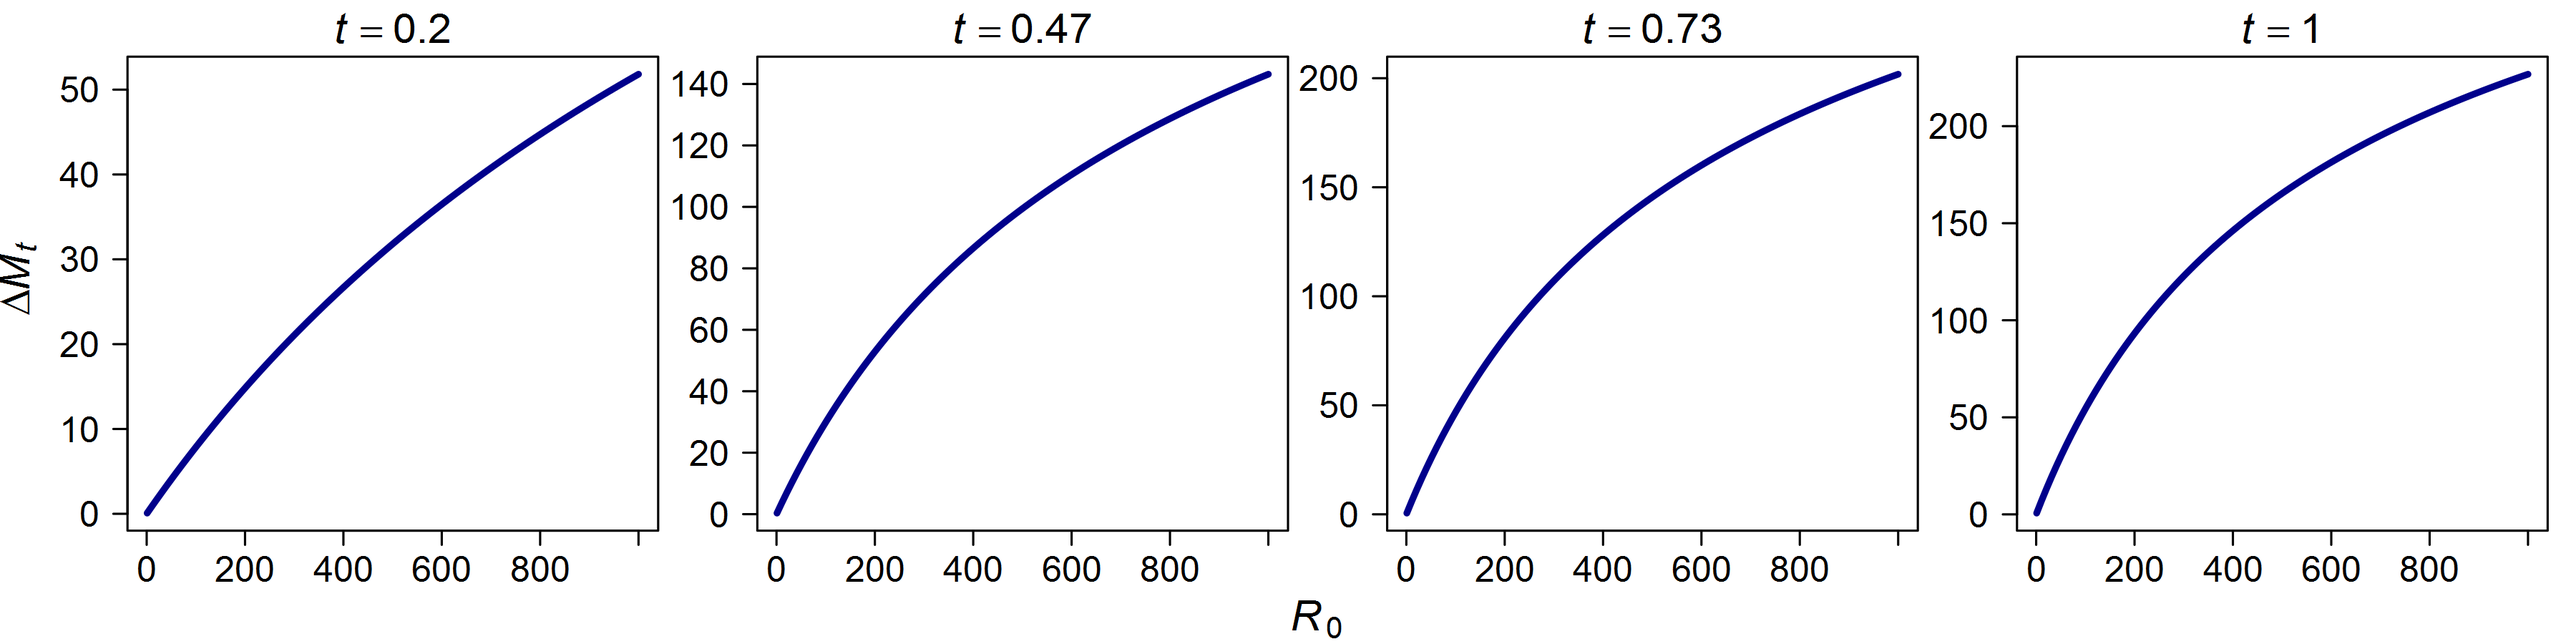
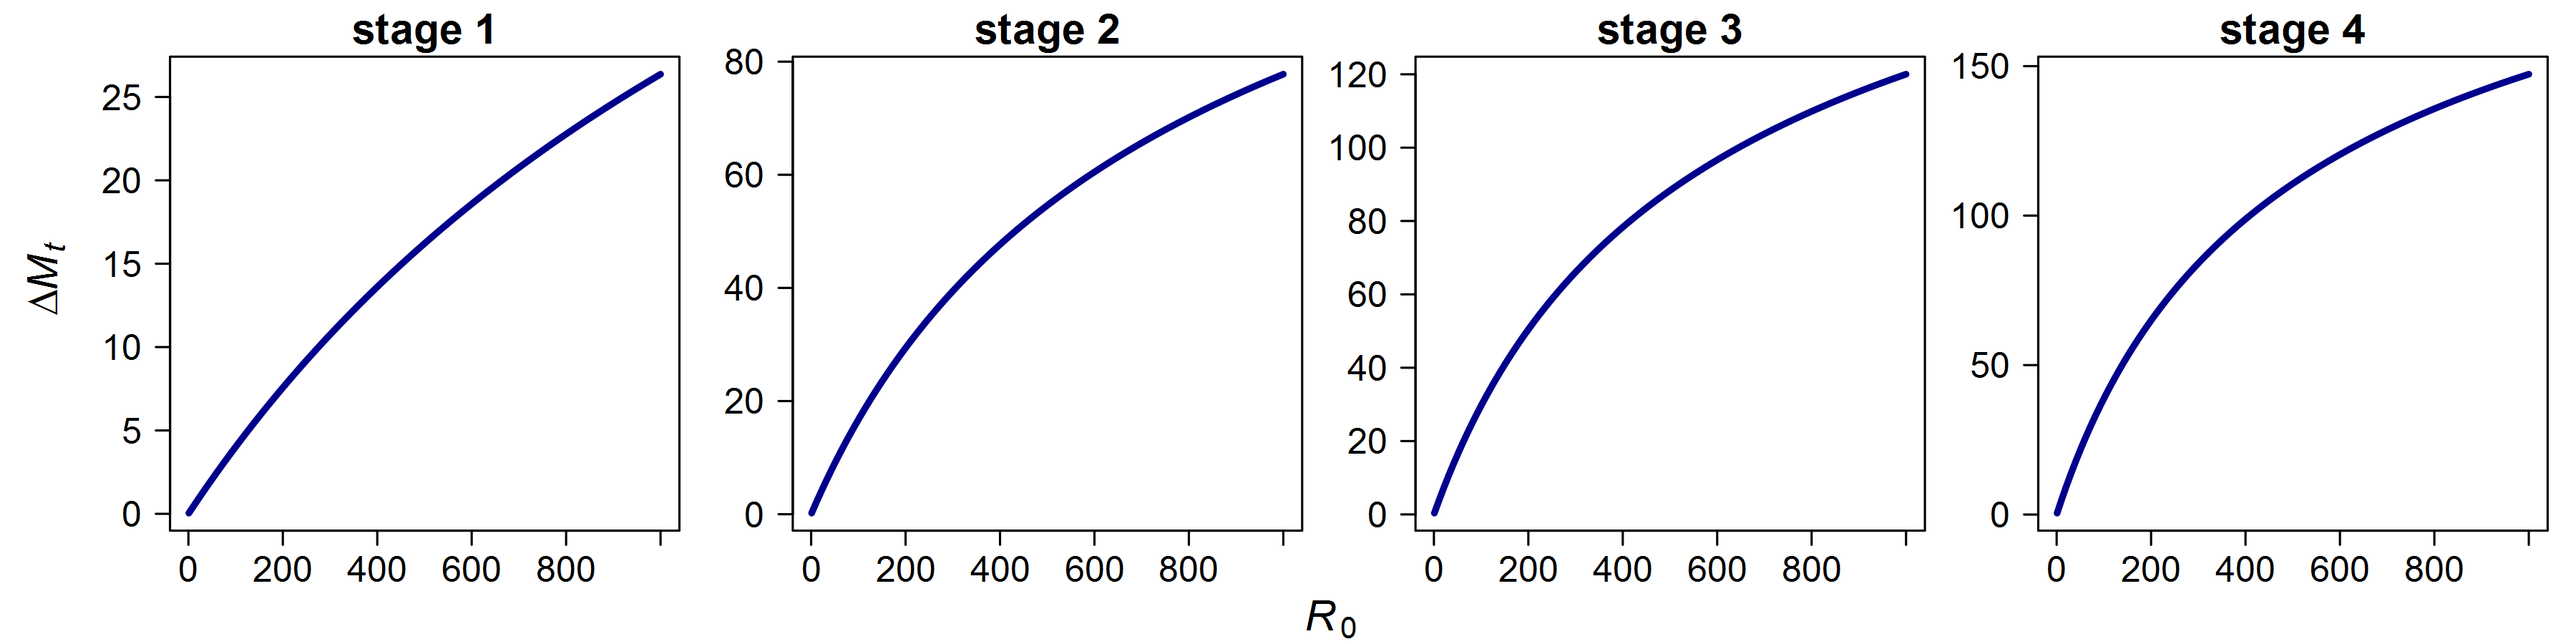
Add density-dependent emigration

diff --git a/src/mortality-migration-example/DD_survival_migration.md b/src/mortality-migration-example/DD_survival_migration.md
@@ -7,6 +7,7 @@ Eric Buhle
 -   [Preamble](#preamble)
 -   [A Toy Model](#a-toy-model)
 -   [A Range of Simulations](#a-range-of-simulations)
+-   [Alternative Assumptions](#alternative-assumptions)
 -   [Summary](#summary)
 
 ## Preamble
@@ -77,7 +78,7 @@ length 1.
 
 ``` r
 times <- seq(0, 1, length = 100)
-parms <- c(s0 = 0.50, Rmax = 100, m = 4, tau = max(times)/3.75)
+parms <- c(s0 = 0.5, Rmax = 100, m = 2, tau = max(times)/3.75)
 RMt <- ode(func = survive_migrate, parms = parms, y = c(R = 100, M = 0), times = times)
 RMt <- data.frame(RMt)
 ```
@@ -146,6 +147,65 @@ remain.
 
 <img src="DD_survival_migration_files/figure-gfm/plot_DD_alrMt-1.png" width="75%" />
 
+## Alternative Assumptions
+
+Let’s relax our initial assumptions about the structure of density
+dependence to allow the instantaneous per capita emigration rate to
+increase with the density of residents. In effect the resident
+population now experiences two sources of (direct) density-dependent
+loss. Absent any system-specific motivation for a particular functional
+form, we’ll assume by analogy with the logistic model that the effect of
+*R* on (1/*R*)*dM*/*dt* is linear (in this case, affine).
+
+``` r
+dMdt <- function(t, R, m, tau)
+{
+  R^2*m*t*exp(sin(2*pi*t/tau))
+}
+```
+
+Again we simulate the dynamics, this time with the baseline migration
+rate *m* reduced to account for the extra factor of *R*.
+
+``` r
+times <- seq(0, 1, length = 100)
+parms <- c(s0 = 0.5, Rmax = 100, m = 0.05, tau = max(times)/3.75)
+RMt <- ode(func = survive_migrate, parms = parms, y = c(R = 100, M = 0), times = times)
+RMt <- data.frame(RMt)
+```
+
+The solution doesn’t look drastically different from the
+density-independent migration case, but the magnitude of the later
+pulses declines faster due to not only the dwindling population of
+residents but also the reduced emigration pressure from conspecific
+density.
+
+<img src="DD_survival_migration_files/figure-gfm/plot_solution_dep-1.png" width="50%" />
+
+The patterns of apparent density dependence in total emigrants from each
+pulse or stage, on the other hand, are completely different. Rather than
+compensation they seem to show depensation, with just a hint of an
+inflection point appearing in the later stages. “Depensation” is a
+misnomer in this case, however, as we are only observing migrants (whose
+subsequent fate, density-dependent or not, is unknown). In fact, these
+patterns reflect the balance between direct density-dependent losses
+from the resident pool that occur through emigration vs. mortality. The
+precise balance and resulting functional forms depend on the parameters,
+but initial exploration failed to find parameter values producing
+“realistic” dynamics, for which the relationships are convex in the
+early stages but strongly concave in the later ones.
+
+![](DD_survival_migration_files/figure-gfm/plot_DD_Mt_dep-1.png)<!-- -->
+
+Interestingly, the relationships in log-ratio space have the same
+concave form as in the density-independent migration case. By
+standardizing the migration pulses relative to one another, we recapture
+the diminishing returns later in the season as density increases –
+doubly so now that the migration pressure on the remaining residents
+weakens as their cohort declines.
+
+<img src="DD_survival_migration_files/figure-gfm/plot_DD_alrMt_dep-1.png" width="75%" />
+
 ## Summary
 
 This simple thought experiment is helpful in formulating a null
@@ -153,17 +213,28 @@ hypothesis or baseline expectation of what we might see in empirical
 data on daily emigration from a system simultaneously undergoing
 mortality. One immediate conclusion is that density dependence of the
 entire cohort with respect to initial abundance manifests in migrant
-counts, even though the per capita migration rate itself and the timing
-and magnitude of its peaks are density-independent.
+counts, even when the per capita migration rate itself and the timing
+and magnitude of its peaks are density-independent. Density-dependent
+emigration also manifests, and appears to produce very distinct
+patterns, at least for the model structure and parameter space
+considered here.
 
-It is also notable that the apparent strength of density dependence
-increases across successive migration pulses or stages. The plot of
-Δ*M*<sub>*t*</sub> vs. *R*<sub>0</sub> in the first pulse is not
-depensatory, but if compensation were weaker than in this example and in
-the presence of correlated environmental stochasticity and observation
-noise, it could easily be mistaken for linear.
+It is also notable that the apparent strength of compensation, at least
+with respect to initial cohort size *R*<sub>0</sub>, increases across
+successive migration pulses or stages regardless of density dependence
+in migration. It seems somewhat unlikely, based on limited parameter
+exploration, that this shift would be strong enough to convert an
+accelerating density-dependent relationship in stage 1 to a saturating
+one by stage 4. This suggests that such a pattern would require another
+explanation – for example, that the instantaneous migration rate becomes
+less strongly density-dependent over the course of the season, either
+gradually or abruptly.
 
 Unfortunately, the log-ratio transformation does not appear to remove
-the density dependence, suggesting we cannot cleanly reparameterize from
-the abundance of each migrant pulse to the total abundance and relative
-frequency in each successive stage.
+the compensatory density dependence, suggesting we cannot cleanly
+reparameterize from the abundance of each migrant pulse to the total
+abundance and relative frequency in each successive stage. However, the
+persistence (and enhancement) of concave functional forms in the
+log-ratio plots, even when the corresponding plots of abundance are
+convex, suggests a possible diagnostic to distinguish between the two
+hypotheses about emigration.
